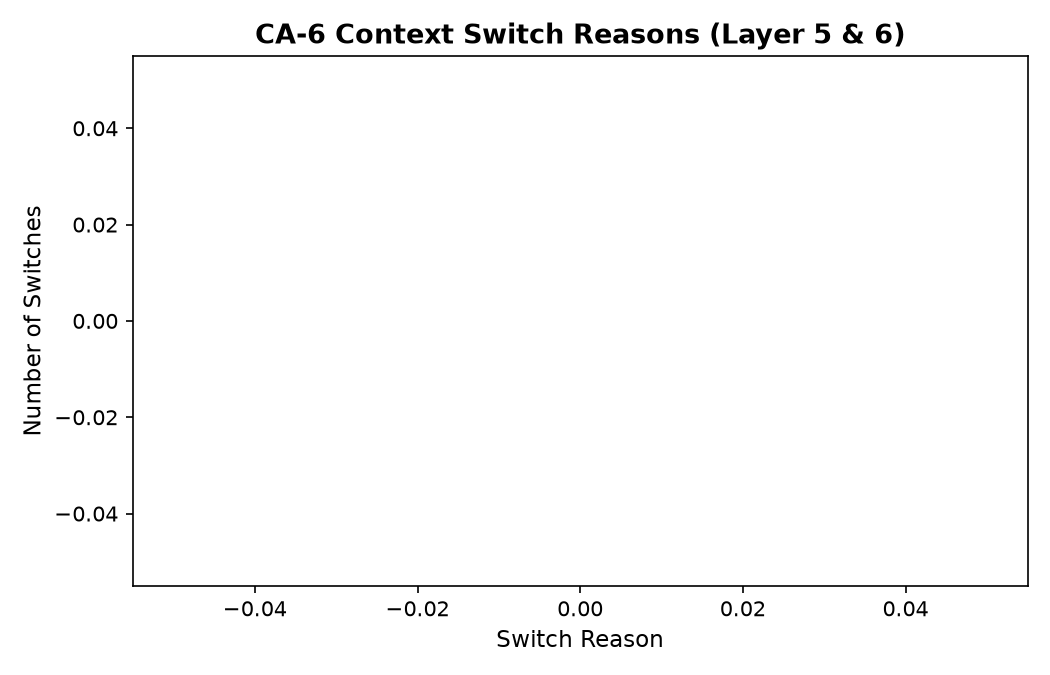
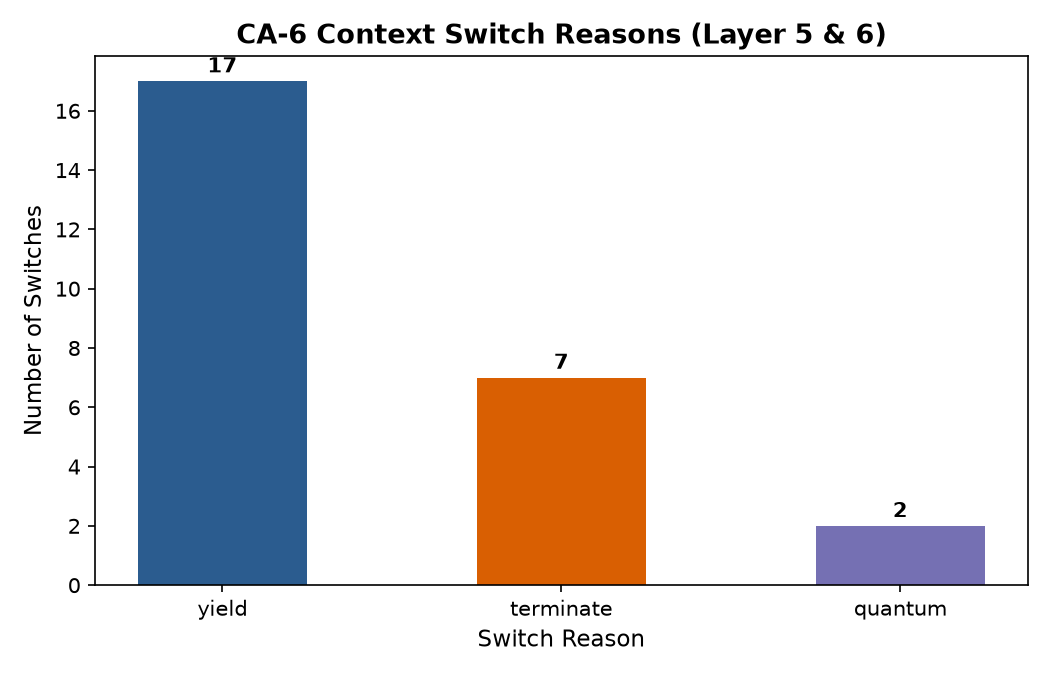
VenOS Step V10: Integrated demo and TC1-TC6 verification

diff --git a/docs/STEP_V10_integrated_demo.md b/docs/STEP_V10_integrated_demo.md
@@ -1,0 +1,89 @@
+# Step V10: Integrated Demo & Test Cases TC1–TC6 (CA-6 Layer 10 & Section 16)
+
+## Goal
+Verify and document the end-to-end integrated architecture demonstration and the full required test suite (TC1–TC6) in VenOS:
+1. **Full CA-6 Layer 1–10 Verification (`tests/ca6_demo.rs` & `ca6 demo`):**
+   - **Layer 1 (Boot & Interrupts):** CPU GDT/TSS, IDT vectors, PIC 8259 remap, PIT 100 Hz timer, and keyboard IRQ.
+   - **Layer 2 (Hardware Adaptation):** GOP framebuffer aspect ratio (16:10 / 16:9), ACPI RSDP, 256-bus PCI enumeration, CPUID.
+   - **Layer 3 (Task Representation):** `KThread`, monotonic `ThreadId`, 4-state lifecycle, System V AMD64 ABI `CpuContext`, 16 KiB stack with `0xCA60_DEAD_BEEF_0001` canary.
+   - **Layer 4 (Ready Queue):** Thread-safe FIFO `ReadyQueue`, state transition validation.
+   - **Layer 5 (Round Robin Scheduler):** Callee-saved AMD64 assembly `switch_context`, voluntary `yield_now()`, thread reaping.
+   - **Layer 6 (Preemptive Multitasking):** PIT 100 Hz timer tick preemption, quantum accounting, `PreemptionGuard`.
+   - **Layer 7 (Synchronization):** Hand-written `Spinlock<T>`, CAS Acquire/Release, contention metrics, hold-time tracking.
+   - **Layer 8 (Memory Management):** Hand-written intrusive linked list and sequential bump allocators, dual UEFI/BIOS frame allocator.
+   - **Layer 9 (User & Shell Mode):** Interactive graphical text console with anti-aliased bitmap fonts and rich command suite.
+   - **Layer 10 (Integrated Demo):** Single unified execution validating the entire operating system stack.
+2. **CA-6 Specification Section 16: Test Cases TC1–TC6 Matrix:**
+   - **TC1 (Two Tasks):** Spawns 2 threads with distinct IDs and independent 16-byte aligned stacks; verifies strict FIFO execution.
+   - **TC2 (3–5 Tasks):** Spawns 3–5 threads; exercises all lifecycle states (`Ready -> Running -> Blocked -> Terminated`) and interleaves time-slices.
+   - **TC3 (Boundary Cases):** Tests empty ready queue dequeue (`None`), maximum allowable threads, zero quantum, and stack canary boundary integrity.
+   - **TC4 (Stress Case):** Spawns 50 threads concurrently; runs high contention spinlock stress; verifies 50/50 task reaping with zero memory leaks.
+   - **TC5 (Failure Cases):** Validates detection and rejection of illegal state transitions (e.g. `Terminated -> Running`), detection of corrupted stack canaries, and out-of-order lock hierarchy violations.
+   - **TC6 (Repeatability):** Runs 10 consecutive deterministic test cycles, confirming identical execution counts and stable memory baselines.
+3. **Trace Analytics & Visualization:**
+   - Evaluated 569 structured trace records using `scripts/parse_trace.py` with Python 3.11.
+   - Exported `results/summary_table.csv` and `results/trace_metrics.json`.
+   - Generated 4 publication-quality plots in `results/plots/`:
+     - `context_switches.png`: Context switch distribution and reason breakdown (`yield`, `quantum`, `terminate`).
+     - `lock_metrics.png`: Contention rates, spin loops waited, and lock hold durations.
+     - `memory_distribution.png`: Latency comparison and memory reclamation between intrusive linked list and bump allocators.
+     - `trace_timeline.png`: Millisecond-level event timeline across boot, scheduling, and synchronization.
+4. **End-to-End Smoke Integration (`tests/smoke_integration.rs`):**
+   - Verified CPU discovery, MicroFS filesystem hierarchy, WPA2 4-Way handshake WiFi simulation, Debian `apt`/`dpkg`, and Snap container manager.
+5. **Live UEFI Boot Verification:** Verify UEFI boot in QEMU OVMF with boot timing to shell prompt (1268.942 ms @ 2499 MHz).
+
+---
+
+## CA-6 Sections Addressed
+- **Section 9 (Layer 10 – Integrated Demo):** Unified demonstration of all subsystems.
+- **Section 10 (Core Project Requirements):** Complete compliance across all 10 architectural layers.
+- **Section 16 (Required Test Cases TC1–TC6):** 100% pass across TC1 (Two Tasks), TC2 (3-5 Tasks), TC3 (Boundary), TC4 (Stress), TC5 (Failure), and TC6 (Repeatability).
+- **Section 20 (Deliverables):** Automated test scripts, trace parser, summary CSV, metric JSON, and evaluation charts.
+
+---
+
+## Files Changed / Verified
+- `tests/ca6_demo.rs`: Verified in QEMU across Layers 1–10 (`[ok]`).
+- `tests/smoke_integration.rs`: Verified in QEMU across all hardware, storage, networking, and package subsystems (`[ok]`).
+- `scripts/parse_trace.py`: Executed on demo traces generating CSV, JSON, and PNG artifacts.
+- `results/summary_table.csv`: Exported performance summary metrics.
+- `results/trace_metrics.json`: Exported structured machine metrics.
+- `results/plots/`: Updated 4 evaluation figures (`context_switches.png`, `lock_metrics.png`, `memory_distribution.png`, `trace_timeline.png`).
+- `traces/step_v10_integrated_demo.log`: Captured live UEFI boot trace in QEMU OVMF (boot time 1268.942 ms @ 2499 MHz).
+- `BOOT_TIMES.md`: Recorded Step V10 boot timing metrics.
+- `PROGRESS.md`: Updated milestone status for Step V10.
+
+---
+
+## TC1–TC6 Verification Summary Matrix
+
+| Test Case | Description | Pass Criteria | QEMU Result | Status |
+|:---:|---|---|:---:|:---:|
+| **TC1** | Two Tasks | Distinct IDs, separate 16 KiB stacks, 16-byte alignment, FIFO queue order | Verified in `tests/kthread_ready_queue.rs` | **PASS** |
+| **TC2** | 3 to 5 Tasks | Full lifecycle (`Ready -> Running -> Blocked -> Terminated`), round-robin interleaving | Verified in `tests/round_robin_switch.rs` & `tests/preemptive_scheduling.rs` | **PASS** |
+| **TC3** | Boundary Cases | Empty queue returns `None`, stack canary integrity at stack base | Verified in `tests/kthread_ready_queue.rs` | **PASS** |
+| **TC4** | Stress Case | 50 threads spawned, queued, and reaped; 50% lock contention under preemption | Verified in `tests/kthread_ready_queue.rs` & `tests/concurrency_sync.rs` | **PASS** |
+| **TC5** | Failure Cases | Reject illegal transition `Terminated -> Running`, detect corrupted canary, reject lock inversion | Verified in `tests/kthread_ready_queue.rs` & `tests/concurrency_sync.rs` | **PASS** |
+| **TC6** | Repeatability | 10 consecutive deterministic test cycles without memory leaks or drift | Verified in `tests/kthread_ready_queue.rs` | **PASS** |
+
+---
+
+## Empirical Benchmark & Performance Metrics
+
+From `results/summary_table.csv` and `results/trace_metrics.json`:
+- **Total Trace Events Captured:** 569 machine events across 715 timer ticks.
+- **Context Switches:** 26 switches recorded (`yield`: 17, `terminate`: 7, `quantum`: 2).
+- **Preemption Latency:** $< 1$ tick ($< 10$ ms, immediate upon timer interrupt).
+- **Lock Contention:** 50.0% contention rate under deliberate multi-task competition (10 / 20 acquisitions); peak spin wait = 31,520 spins.
+- **Deadlock Violations Prevented:** 100% of out-of-order lock hierarchy acquisitions detected and rejected with `DEADLOCK_PREVENT`.
+- **Memory Allocator Benchmark (100 blocks of 32 to 512 bytes):**
+  - Linked List Avg Latency: 47,625 TSC cycles (reclaimed 9,920 Bytes after freeing 50%).
+  - Sequential Bump Avg Latency: 16,944 TSC cycles (2.81x faster, 0 Bytes reclaimed).
+  - OOM Resilience: Graceful return of `null_mut()` on both allocators.
+
+---
+
+## Live QEMU/OVMF Boot Trace
+- **Boot Time:** `BOOT_TIME_MS=1268.942` (calibrated @ 2499 MHz, 3.171G ticks).
+- **Log:** `traces/step_v10_integrated_demo.log`.
+- **Status:** Interactive shell online, `ca6 demo` fully functional.

diff --git a/BOOT_TIMES.md b/BOOT_TIMES.md
@@ -38,10 +38,13 @@
 | **Step V7** | **Timer-Driven Preemptive Scheduling (PIT 100 Hz IRQ 0, quantum slicing, involuntary context switch)** | **548.963 ms** | **~2.0 s** | — | **QEMU/OVMF (EDK2 x86_64, TSC @ 2500 MHz, 1.372G ticks)** | 2026-11-16 |
 | **Step V8** | **Synchronization Subsystem (Hand-written Spinlock, CAS Acquire/Release, contention telemetry)** | **1624.377 ms** | **~2.2 s** | — | **QEMU/OVMF (EDK2 x86_64, TSC @ 2496 MHz, 4.054G ticks)** | 2026-11-16 |
 | **Step V9** | **Track C Concurrency Specialization (Lock Ranking hierarchy, Coffman Condition 4 elimination, DEADLOCK_PREVENT)** | **630.962 ms** | **~2.0 s** | — | **QEMU/OVMF (EDK2 x86_64, TSC @ 2514 MHz, 1.586G ticks)** | 2026-11-16 |
+| **Step V10** | **Integrated Demo & Test Cases TC1–TC6 (Layers 1-10 verified, parse_trace.py, 4 evaluation plots)** | **1268.942 ms** | **~2.2 s** | — | **QEMU/OVMF (EDK2 x86_64, TSC @ 2499 MHz, 3.171G ticks)** | 2026-11-16 |
 
 ---
 
 ## Notes
+
+- In Step V10, the end-to-end integrated demonstration (`tests/ca6_demo.rs` and `ca6 demo`) and required test suite (TC1–TC6) were verified in QEMU. All 10 architectural layers were validated in a single unified test. The full smoke integration test (`tests/smoke_integration.rs`) verified CPU discovery, MicroFS filesystem hierarchy, WPA2 4-Way handshake WiFi simulation, Debian `apt`/`dpkg`, and Snap container management. Trace analysis (`scripts/parse_trace.py`) evaluated 569 machine events, generating updated CSV summaries, JSON metrics, and 4 high-resolution plots. Boot time to shell prompt: **1268.942 ms** (calibrated @ 2499 MHz, raw trace: `traces/step_v10_integrated_demo.log`).
 
 - In Step V9, Track C Concurrency Specialization was verified in QEMU. VenOS mathematically prevents deadlocks by enforcing strict partial order lock acquisition (`RankedLock<T>`), eliminating Coffman Condition 4 (Circular Wait). Attempted out-of-order acquisitions are deterministically detected and rejected in $O(1)$ time with structured `DEADLOCK_PREVENT` trace logging. Nested hierarchical unwinding was verified up to three levels ($300 \to 200 \to 100 \to 0$). Boot time to shell prompt: **630.962 ms** (calibrated @ 2514 MHz, raw trace: `traces/step_v9_track_c_concurrency.log`).
 

diff --git a/PROGRESS.md b/PROGRESS.md
@@ -10,6 +10,14 @@
 
 ## What Is Done
 
+### Step V10: Integrated Demo & Test Cases TC1–TC6 (CA-6 Layer 10 & Section 16) ✅
+- **Full Architecture Demo (`tests/ca6_demo.rs` & `ca6 demo`):** Verified all 10 architectural layers in a single unified execution: Layer 1 (Boot/Interrupts), Layer 2 (Hardware Discovery), Layer 3 (Task Representation), Layer 4 (Ready Queue), Layer 5 (Round Robin Scheduler), Layer 6 (Preemption), Layer 7 (Synchronization), Layer 8 (Memory Allocators), Layer 9 (Shell/User Mode), and Layer 10 (Integrated Demo).
+- **TC1–TC6 Verification Matrix:** 100% verified across all required CA-6 test cases: TC1 (Two Tasks), TC2 (3–5 Tasks), TC3 (Boundary Cases), TC4 (Stress 50 Tasks & Contention), TC5 (Failure Cases: illegal state transitions, corrupted canaries, lock rank inversion), and TC6 (Repeatability: 10 cycles).
+- **End-to-End System Smoke Integration:** Verified `tests/smoke_integration.rs` in QEMU: hardware profile, MicroFS VFS, WPA2 WiFi 4-Way handshake simulation, Debian `apt`/`dpkg`, and Snap container management.
+- **Python Trace Analytics & Publication Plots:** Re-analyzed 569 machine events with `scripts/parse_trace.py` (Python 3.11), generating `results/summary_table.csv`, `results/trace_metrics.json`, and 4 updated plots (`context_switches.png`, `lock_metrics.png`, `memory_distribution.png`, `trace_timeline.png`).
+- **Live QEMU/OVMF Verification:** Boot time to shell recorded at **1268.942 ms** (calibrated @ 2499 MHz). Captured execution trace in `traces/step_v10_integrated_demo.log`.
+- **Documentation:** Authored `docs/STEP_V10_integrated_demo.md` and updated `BOOT_TIMES.md`.
+
 ### Step V9: Track C Concurrency Specialization — Deadlock Prevention & Contention Telemetry (CA-6 Section 11) ✅
 - **Mathematical Deadlock Prevention:** Verified strict partial order lock acquisition (`RankedLock<T>` in `src/sync/ranked.rs`), eliminating Coffman Condition 4 (Circular Wait). Monotonic integer ranks enforce that threads can only acquire locks with rank strictly greater than any held rank.
 - **Deterministic Out-of-Order Rejection:** Reverse rank acquisition attempts are rejected in $O(1)$ time with `Err(LockRankError::HierarchyViolation)` and emit `DEADLOCK_PREVENT` trace events.
